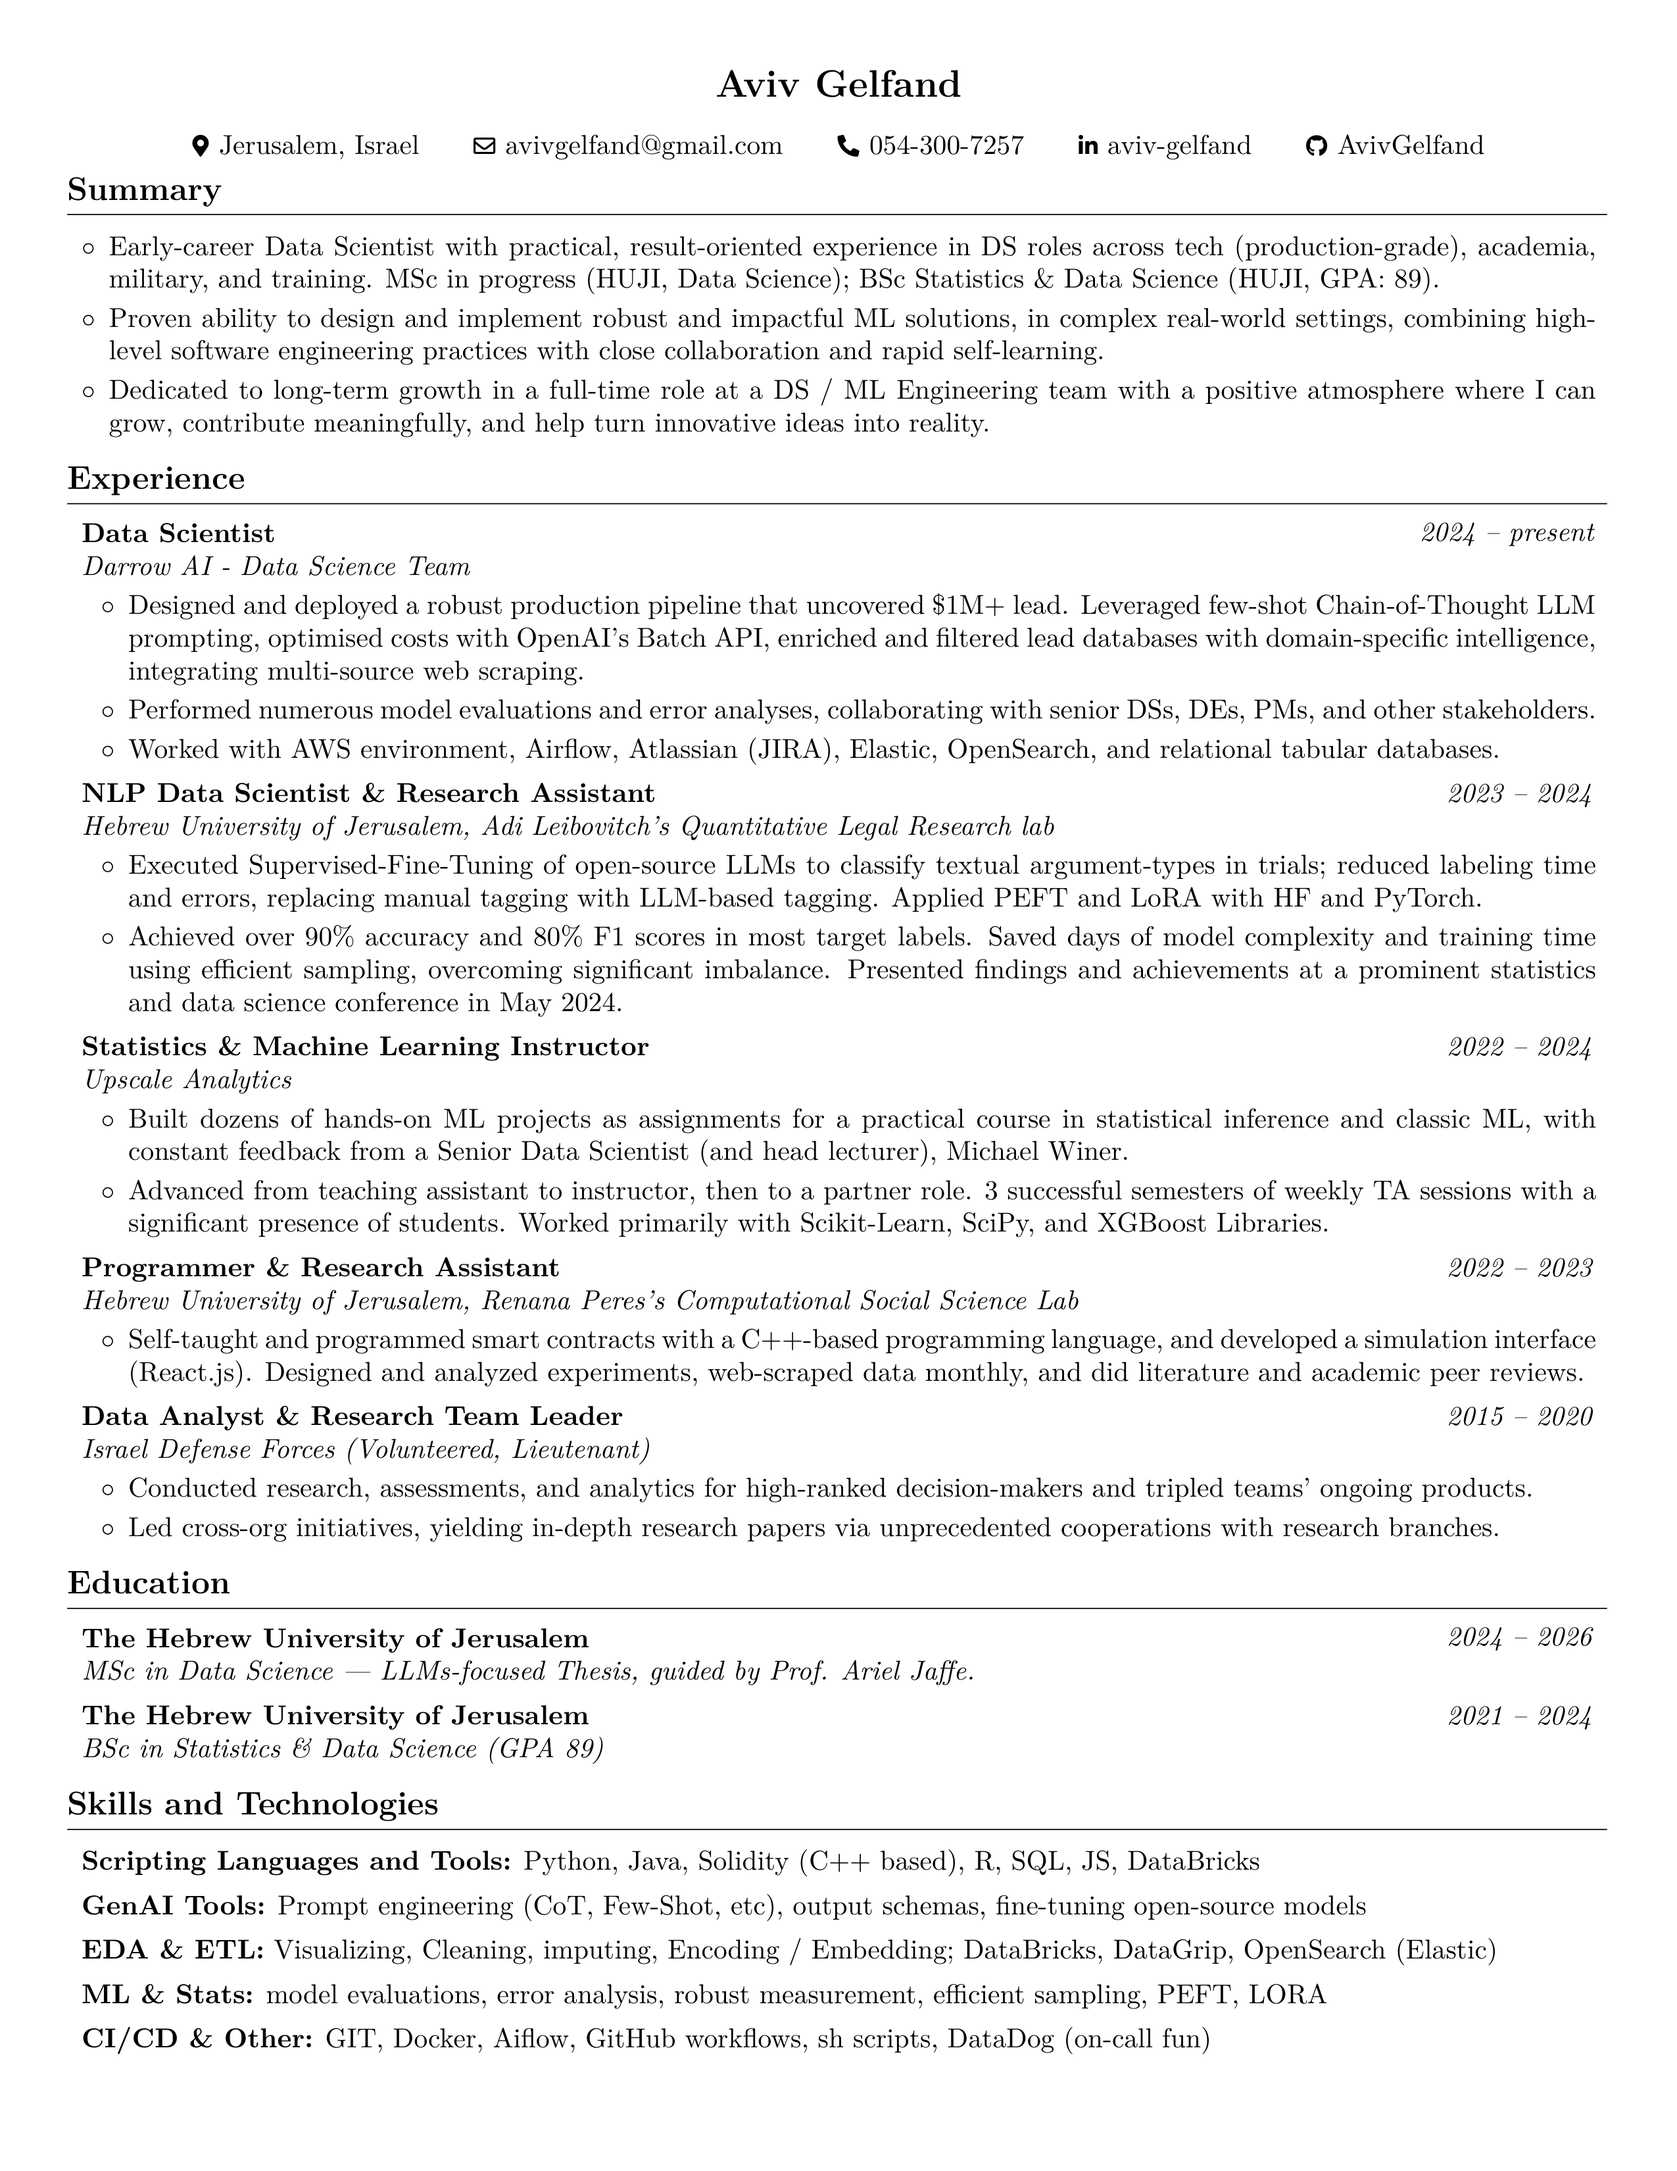
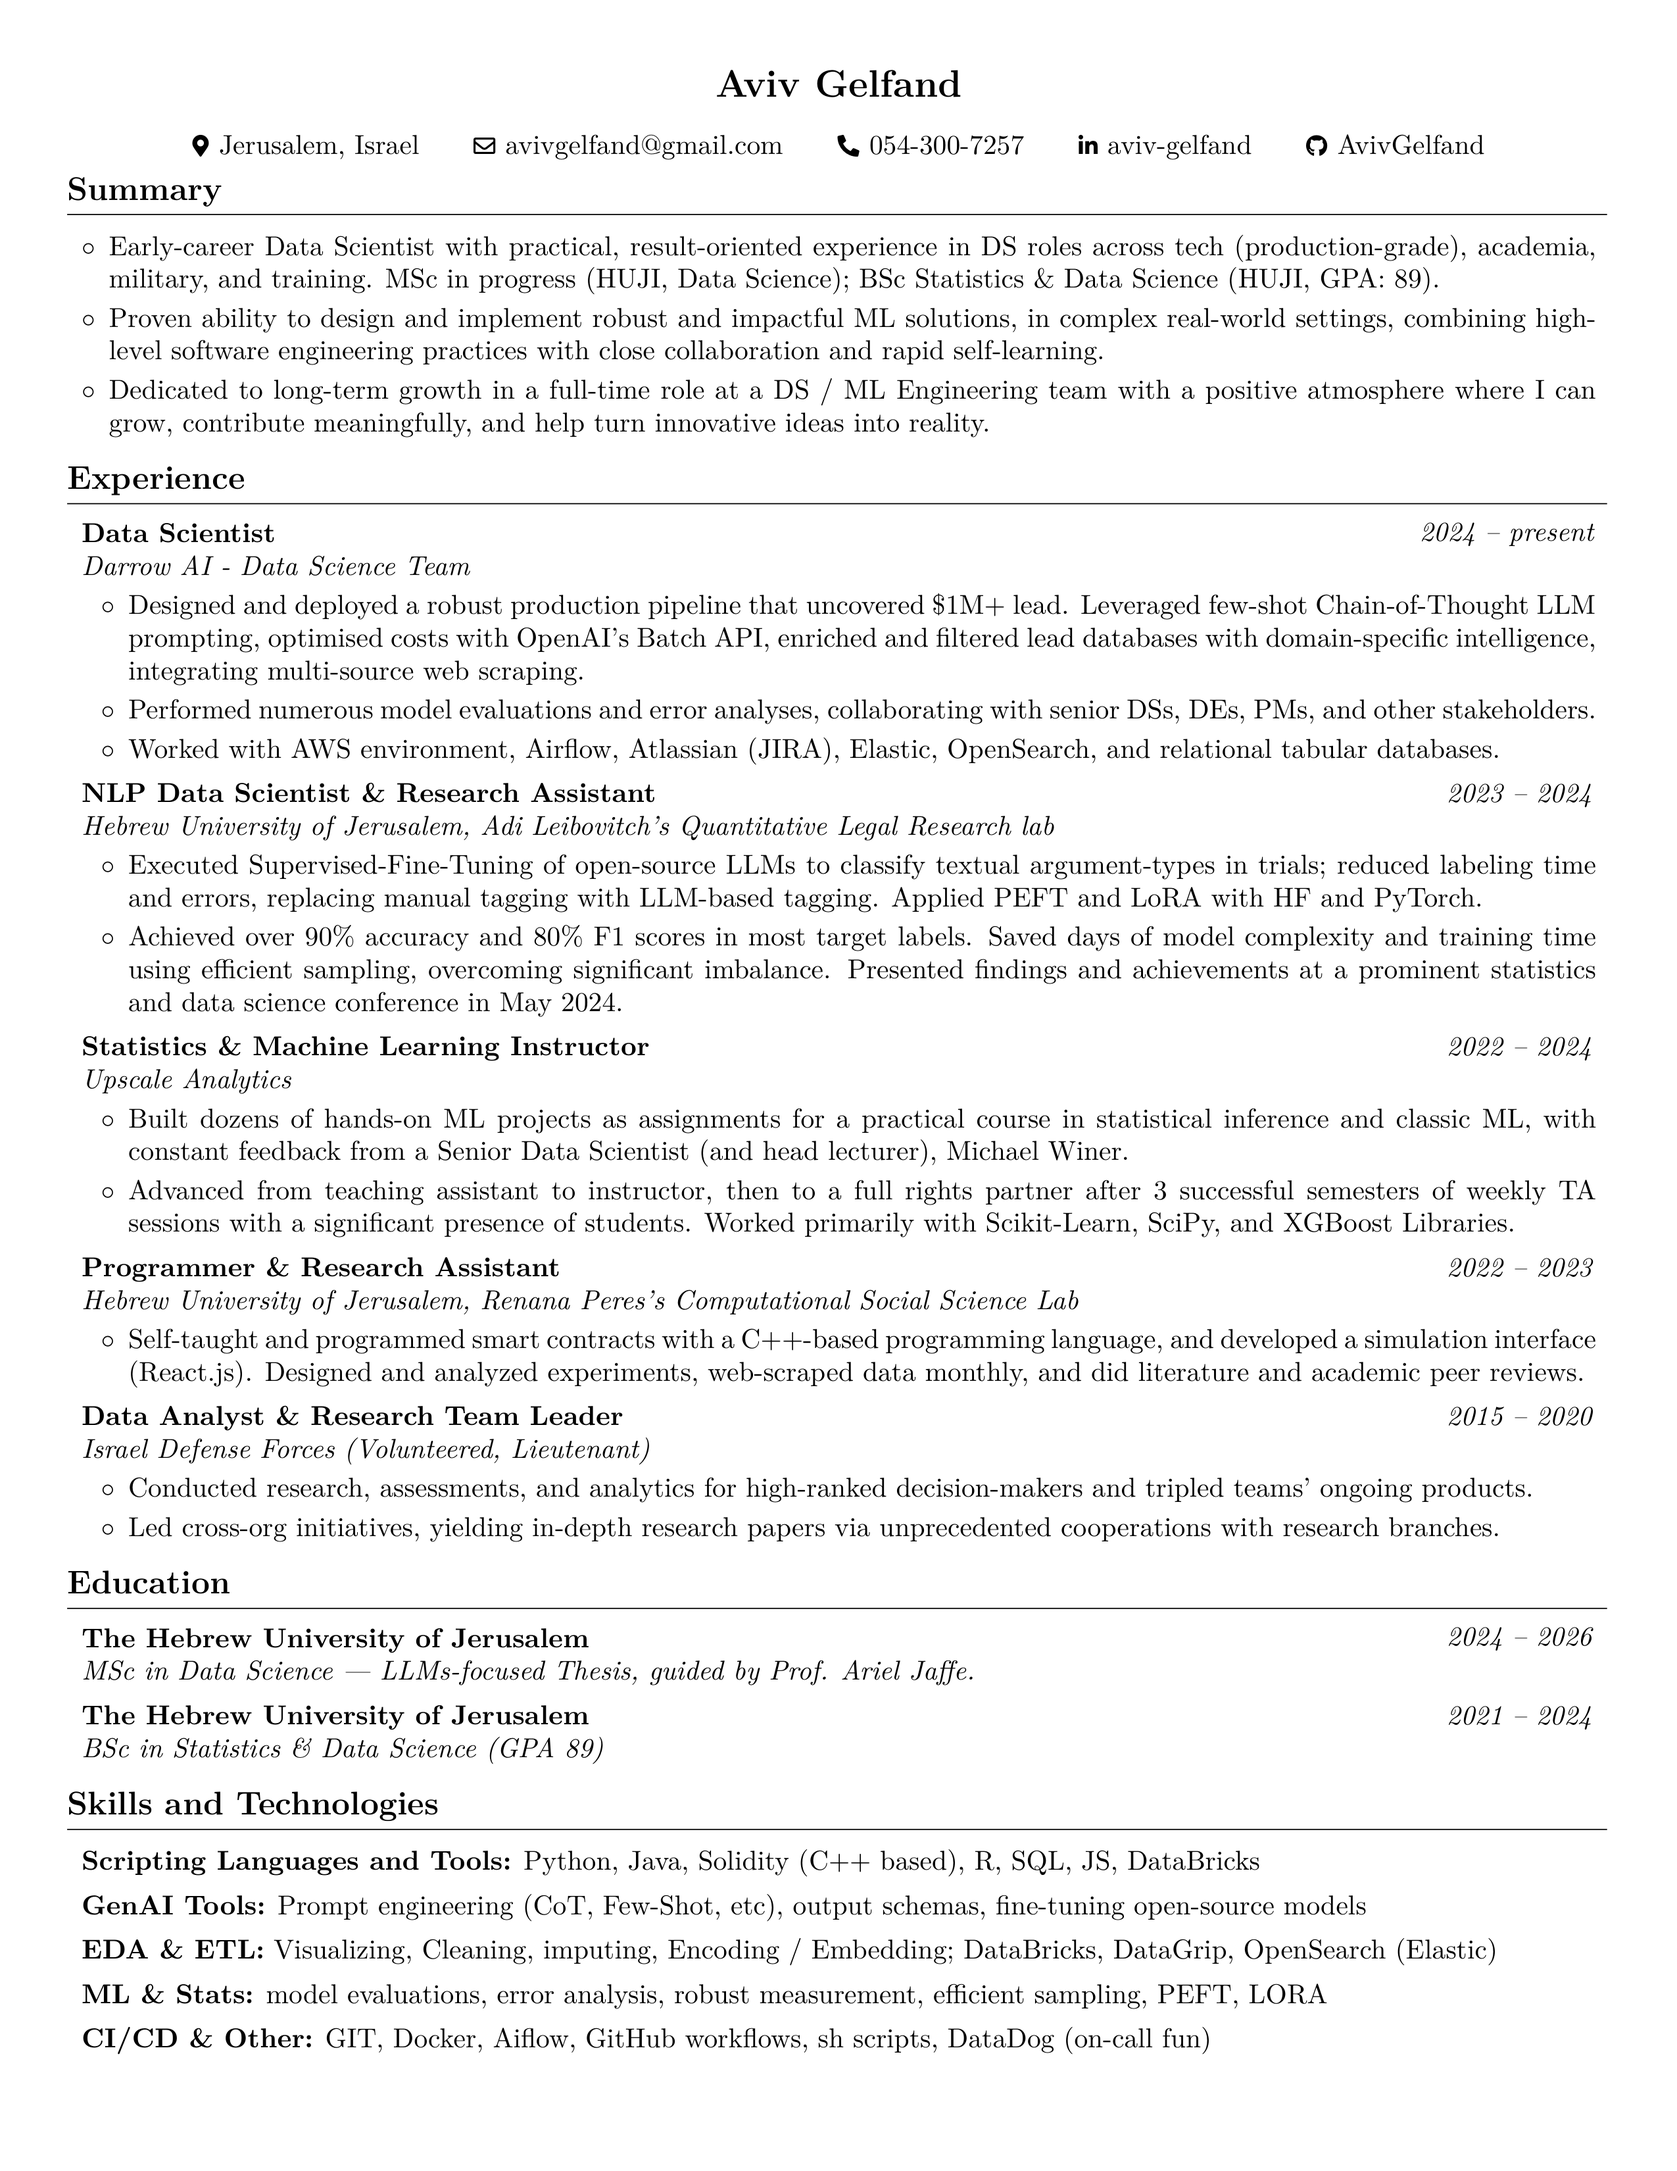
Render the latest CV

Changed region(s): [[0.1549, 0.5306, 0.9294, 0.593], [0.0929, 0.5618, 0.1239, 0.593]]

diff --git a/Aviv_Gelfand_CV.html b/Aviv_Gelfand_CV.html
@@ -64,7 +64,7 @@
         <ul>
         <li>2022 – 2024</li>
         <li>Built dozens of hands-on  ML projects as assignments for a practical course in statistical inference and classic ML, with constant feedback from a Senior Data Scientist (and head lecturer), Michael Winer.</li>
-        <li>Advanced from teaching assistant to instructor, then to a partner role. 3 successful semesters of weekly TA sessions with a significant presence of students. Worked primarily with Scikit-Learn, SciPy, and XGBoost Libraries.</li>
+        <li>Advanced from teaching assistant to instructor, then to a full rights partner after 3 successful semesters of weekly TA sessions with a significant presence of students. Worked primarily with Scikit-Learn, SciPy, and XGBoost Libraries.</li>
         </ul>
         <h2>Hebrew University of Jerusalem, Renana Peres's Computational Social Science Lab, Programmer &amp; Research Assistant</h2>
         <ul>

diff --git a/Aviv_Gelfand_CV.tex b/Aviv_Gelfand_CV.tex
@@ -250,7 +250,7 @@
         \begin{onecolentry}
             \begin{highlights}
                 \item Built dozens of hands-on  ML projects as assignments for a practical course in statistical inference and classic ML, with constant feedback from a Senior Data Scientist (and head lecturer), Michael Winer.
-                \item Advanced from teaching assistant to instructor, then to a partner role. 3 successful semesters of weekly TA sessions with a significant presence of students. Worked primarily with Scikit-Learn, SciPy, and XGBoost Libraries.
+                \item Advanced from teaching assistant to instructor, then to a full rights partner after 3 successful semesters of weekly TA sessions with a significant presence of students. Worked primarily with Scikit-Learn, SciPy, and XGBoost Libraries.
             \end{highlights}
         \end{onecolentry}
 

diff --git a/README.md b/README.md
@@ -33,7 +33,7 @@
 
 - 2022 – 2024
 - Built dozens of hands-on  ML projects as assignments for a practical course in statistical inference and classic ML, with constant feedback from a Senior Data Scientist (and head lecturer), Michael Winer.
-- Advanced from teaching assistant to instructor, then to a partner role. 3 successful semesters of weekly TA sessions with a significant presence of students. Worked primarily with Scikit-Learn, SciPy, and XGBoost Libraries.
+- Advanced from teaching assistant to instructor, then to a full rights partner after 3 successful semesters of weekly TA sessions with a significant presence of students. Worked primarily with Scikit-Learn, SciPy, and XGBoost Libraries.
 
 ## Hebrew University of Jerusalem, Renana Peres's Computational Social Science Lab, Programmer & Research Assistant
 
